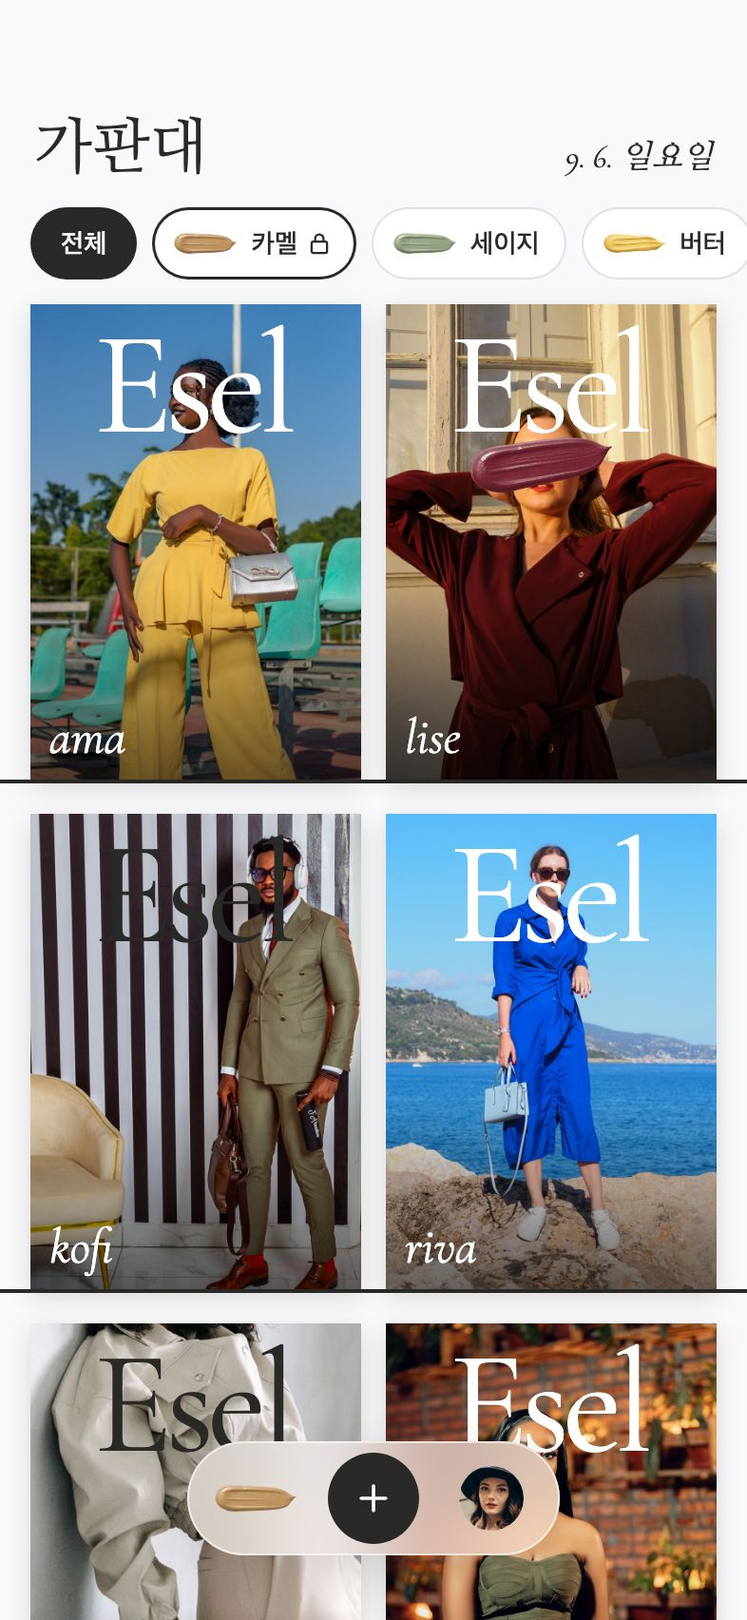
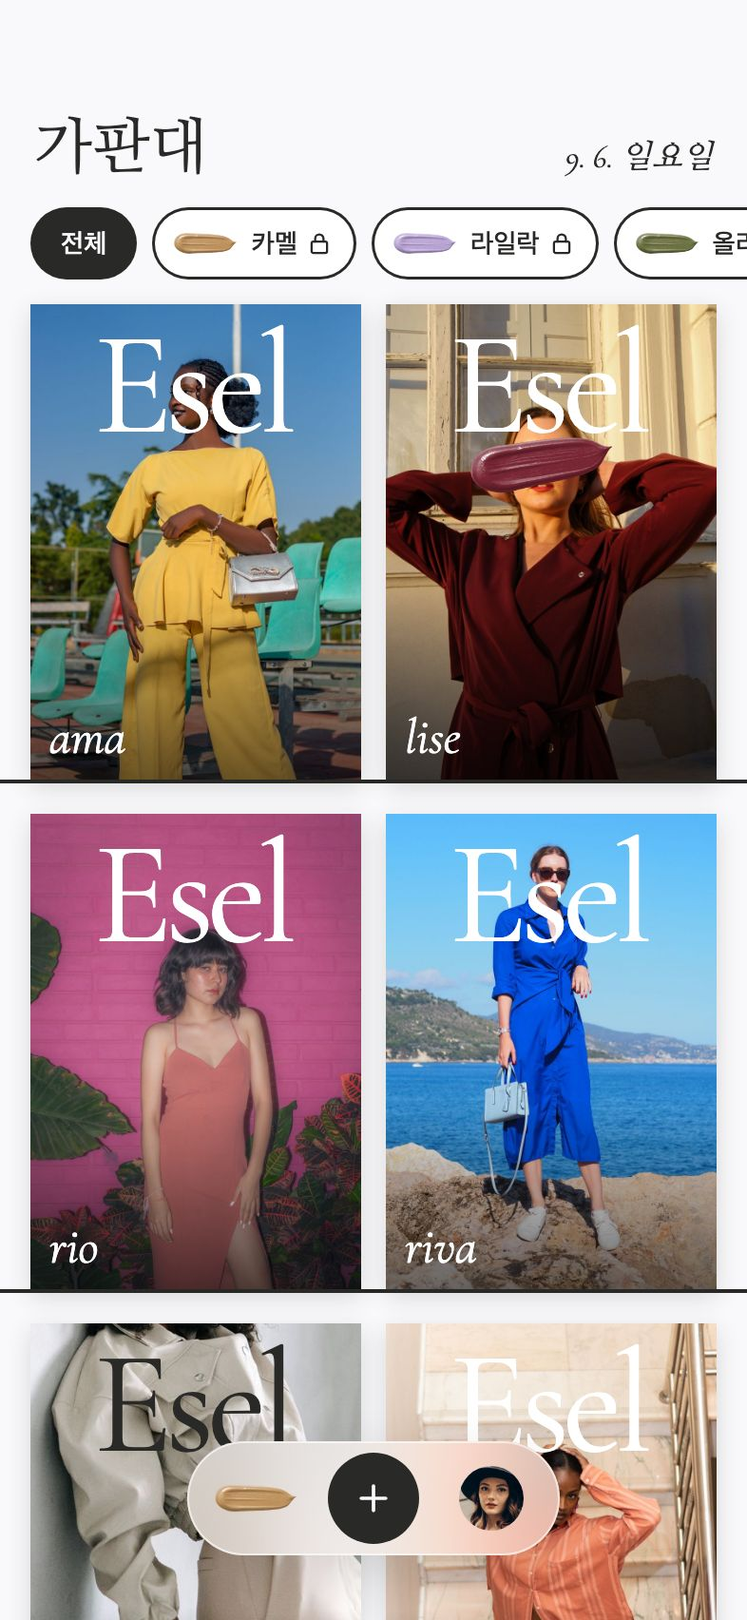
feat: 앱 목업과 디자인 가판대에 후보 3색 자물쇠 반영
목업과 캔버스 생성기의 가판대 칩에서 오늘 후보 3색(카멜·라일락·올리브)
모두에 자물쇠를 달고, 각 칩이 그 색의 미리보기 방(C8)을 연다. 발행 전
가판대 전체 선반에서 후보 색 표지를 빼고, 올리브 표지 자리는 후보가
아닌 색의 표지로 바꿨다. 디자인·목업 캡처와 디자인 문서도 갱신한다.

Changed region(s): [[0.0305, 0.4977, 0.4885, 0.8087], [0.4885, 0.8087, 0.9771, 1.0], [0.4885, 0.1244, 1.0, 0.1866]]

diff --git a/.codex/temp/prototype/20261003-cover-sns/generator/project/CoverStand.dc.html b/.codex/temp/prototype/20261003-cover-sns/generator/project/CoverStand.dc.html
@@ -33,14 +33,14 @@ button:active,a:active{transform:scale(0.97)}
 <div style="flex-shrink: 0; display: flex; gap: 8px; padding: 4px 16px 10px; overflow: hidden">
 <button type="button" aria-pressed="true" style="height: 44px; flex-shrink: 0; display: flex; align-items: center"><span style="height: 38px; padding: 0 16px; border-radius: 19px; display: flex; align-items: center; gap: 4px; font-size: 14px; font-weight: 500; white-space: nowrap; background: #292A27; color: #F9F9FB"><span>전체</span></span></button>
 <a href="CoverStandLocked.dc.html" aria-label="카멜 · 오늘 발행 전이라 세 장만 먼저 보여요" style="height: 44px; flex-shrink: 0; display: flex; align-items: center"><span style="height: 38px; padding: 0 12px 0 8px; border-radius: 19px; display: flex; align-items: center; gap: 4px; font-size: 14px; font-weight: 500; white-space: nowrap; background: #FFFFFF; box-shadow: inset 0 0 0 1.5px #292A27"><img src="/_blob/b6075b3235f77454183c94c49f6da37a" alt="" style="width: 40px; height: 20px; flex-shrink: 0; object-fit: contain"><span>카멜</span><svg width="15" height="15" viewBox="0 0 24 24" fill="none" stroke="currentColor" stroke-width="1.8" stroke-linecap="round" stroke-linejoin="round" aria-hidden="true"><rect x="5.5" y="10.5" width="13" height="9.5" rx="1.5"></rect><path d="M8.5 10.5V8a3.5 3.5 0 0 1 7 0v2.5"></path></svg></span></a>
+<a href="CoverStandLocked.dc.html" aria-label="라일락 · 오늘 발행 전이라 세 장만 먼저 보여요" style="height: 44px; flex-shrink: 0; display: flex; align-items: center"><span style="height: 38px; padding: 0 12px 0 8px; border-radius: 19px; display: flex; align-items: center; gap: 4px; font-size: 14px; font-weight: 500; white-space: nowrap; background: #FFFFFF; box-shadow: inset 0 0 0 1.5px #292A27"><img src="/_blob/d032f1756dd4b6c552a391d30c48d7d6" alt="" style="width: 40px; height: 20px; flex-shrink: 0; object-fit: contain"><span>라일락</span><svg width="15" height="15" viewBox="0 0 24 24" fill="none" stroke="currentColor" stroke-width="1.8" stroke-linecap="round" stroke-linejoin="round" aria-hidden="true"><rect x="5.5" y="10.5" width="13" height="9.5" rx="1.5"></rect><path d="M8.5 10.5V8a3.5 3.5 0 0 1 7 0v2.5"></path></svg></span></a>
+<a href="CoverStandLocked.dc.html" aria-label="올리브 · 오늘 발행 전이라 세 장만 먼저 보여요" style="height: 44px; flex-shrink: 0; display: flex; align-items: center"><span style="height: 38px; padding: 0 12px 0 8px; border-radius: 19px; display: flex; align-items: center; gap: 4px; font-size: 14px; font-weight: 500; white-space: nowrap; background: #FFFFFF; box-shadow: inset 0 0 0 1.5px #292A27"><img src="/_blob/8cb906caa448cfa1a9e4217aa611ab08" alt="" style="width: 40px; height: 20px; flex-shrink: 0; object-fit: contain"><span>올리브</span><svg width="15" height="15" viewBox="0 0 24 24" fill="none" stroke="currentColor" stroke-width="1.8" stroke-linecap="round" stroke-linejoin="round" aria-hidden="true"><rect x="5.5" y="10.5" width="13" height="9.5" rx="1.5"></rect><path d="M8.5 10.5V8a3.5 3.5 0 0 1 7 0v2.5"></path></svg></span></a>
 <button type="button" aria-pressed="false" style="height: 44px; flex-shrink: 0; display: flex; align-items: center"><span style="height: 38px; padding: 0 14px 0 8px; border-radius: 19px; display: flex; align-items: center; gap: 4px; font-size: 14px; font-weight: 500; white-space: nowrap; background: #FFFFFF; box-shadow: inset 0 0 0 1px #E0E1DC"><img src="/_blob/01c7aef9caeab80dd2ca2949e8ba18c0" alt="" style="width: 40px; height: 20px; flex-shrink: 0; object-fit: contain"><span>세이지</span></span></button>
 <button type="button" aria-pressed="false" style="height: 44px; flex-shrink: 0; display: flex; align-items: center"><span style="height: 38px; padding: 0 14px 0 8px; border-radius: 19px; display: flex; align-items: center; gap: 4px; font-size: 14px; font-weight: 500; white-space: nowrap; background: #FFFFFF; box-shadow: inset 0 0 0 1px #E0E1DC"><img src="/_blob/76c81659c2b051a973c2071f8c1dd366" alt="" style="width: 40px; height: 20px; flex-shrink: 0; object-fit: contain"><span>버터</span></span></button>
 <button type="button" aria-pressed="false" style="height: 44px; flex-shrink: 0; display: flex; align-items: center"><span style="height: 38px; padding: 0 14px 0 8px; border-radius: 19px; display: flex; align-items: center; gap: 4px; font-size: 14px; font-weight: 500; white-space: nowrap; background: #FFFFFF; box-shadow: inset 0 0 0 1px #E0E1DC"><img src="/_blob/2741e570bc827c25a1b735a55cfb4f8e" alt="" style="width: 40px; height: 20px; flex-shrink: 0; object-fit: contain"><span>파우더 블루</span></span></button>
 <button type="button" aria-pressed="false" style="height: 44px; flex-shrink: 0; display: flex; align-items: center"><span style="height: 38px; padding: 0 14px 0 8px; border-radius: 19px; display: flex; align-items: center; gap: 4px; font-size: 14px; font-weight: 500; white-space: nowrap; background: #FFFFFF; box-shadow: inset 0 0 0 1px #E0E1DC"><img src="/_blob/45fd789cdc8232887f512c159b3ba1e3" alt="" style="width: 40px; height: 20px; flex-shrink: 0; object-fit: contain"><span>코랄</span></span></button>
-<button type="button" aria-pressed="false" style="height: 44px; flex-shrink: 0; display: flex; align-items: center"><span style="height: 38px; padding: 0 14px 0 8px; border-radius: 19px; display: flex; align-items: center; gap: 4px; font-size: 14px; font-weight: 500; white-space: nowrap; background: #FFFFFF; box-shadow: inset 0 0 0 1px #E0E1DC"><img src="/_blob/d032f1756dd4b6c552a391d30c48d7d6" alt="" style="width: 40px; height: 20px; flex-shrink: 0; object-fit: contain"><span>라일락</span></span></button>
 <button type="button" aria-pressed="false" style="height: 44px; flex-shrink: 0; display: flex; align-items: center"><span style="height: 38px; padding: 0 14px 0 8px; border-radius: 19px; display: flex; align-items: center; gap: 4px; font-size: 14px; font-weight: 500; white-space: nowrap; background: #FFFFFF; box-shadow: inset 0 0 0 1px #E0E1DC"><img src="/_blob/dc9bda2f1944a8796d1a3d118d7d5935" alt="" style="width: 40px; height: 20px; flex-shrink: 0; object-fit: contain"><span>테라코타</span></span></button>
 <button type="button" aria-pressed="false" style="height: 44px; flex-shrink: 0; display: flex; align-items: center"><span style="height: 38px; padding: 0 14px 0 8px; border-radius: 19px; display: flex; align-items: center; gap: 4px; font-size: 14px; font-weight: 500; white-space: nowrap; background: #FFFFFF; box-shadow: inset 0 0 0 1px #E0E1DC"><img src="/_blob/8c34cccf0aa6b2cd1c68178dbff4a444" alt="" style="width: 40px; height: 20px; flex-shrink: 0; object-fit: contain"><span>버건디</span></span></button>
-<button type="button" aria-pressed="false" style="height: 44px; flex-shrink: 0; display: flex; align-items: center"><span style="height: 38px; padding: 0 14px 0 8px; border-radius: 19px; display: flex; align-items: center; gap: 4px; font-size: 14px; font-weight: 500; white-space: nowrap; background: #FFFFFF; box-shadow: inset 0 0 0 1px #E0E1DC"><img src="/_blob/8cb906caa448cfa1a9e4217aa611ab08" alt="" style="width: 40px; height: 20px; flex-shrink: 0; object-fit: contain"><span>올리브</span></span></button>
 <button type="button" aria-pressed="false" style="height: 44px; flex-shrink: 0; display: flex; align-items: center"><span style="height: 38px; padding: 0 14px 0 8px; border-radius: 19px; display: flex; align-items: center; gap: 4px; font-size: 14px; font-weight: 500; white-space: nowrap; background: #FFFFFF; box-shadow: inset 0 0 0 1px #E0E1DC"><img src="/_blob/3530d97ccf523268678b64e43a7a9448" alt="" style="width: 40px; height: 20px; flex-shrink: 0; object-fit: contain"><span>크림</span></span></button>
 <button type="button" aria-pressed="false" style="height: 44px; flex-shrink: 0; display: flex; align-items: center"><span style="height: 38px; padding: 0 14px 0 8px; border-radius: 19px; display: flex; align-items: center; gap: 4px; font-size: 14px; font-weight: 500; white-space: nowrap; background: #FFFFFF; box-shadow: inset 0 0 0 1px #E0E1DC"><img src="/_blob/f0a5d7b805f4ea330ca85e418c63f59e" alt="" style="width: 40px; height: 20px; flex-shrink: 0; object-fit: contain"><span>차콜</span></span></button>
 <button type="button" aria-pressed="false" style="height: 44px; flex-shrink: 0; display: flex; align-items: center"><span style="height: 38px; padding: 0 14px 0 8px; border-radius: 19px; display: flex; align-items: center; gap: 4px; font-size: 14px; font-weight: 500; white-space: nowrap; background: #FFFFFF; box-shadow: inset 0 0 0 1px #E0E1DC"><img src="/_blob/df0bc44e7f972fd97b0d90234a638a31" alt="" style="width: 40px; height: 20px; flex-shrink: 0; object-fit: contain"><span>코발트</span></span></button>
@@ -57,11 +57,11 @@ button:active,a:active{transform:scale(0.97)}
 <span style="position: absolute; left: 10px; bottom: 9px; color: #FFFFFF; font-family: 'Esel Dot', 'Cormorant Garamond', 'Nanum Myeongjo', AppleMyungjo, Georgia, serif; font-style: italic; font-size: 26px; line-height: 1">lise</span>
 </a></div>
 <span aria-hidden="true" style="flex-shrink: 0; height: 2px; margin-bottom: 16px; background: #292A27"></span>
-<div style="flex-shrink: 0; display: flex; justify-content: space-between; padding: 0 16px"><a href="CoverFeed.dc.html" aria-label="kofi의 표지 보기" style="position: relative; display: block; width: 174px; height: 250px; flex-shrink: 0; overflow: hidden; background: #EDEEEA; color: #292A27; box-shadow: 0 4px 12px rgba(41, 42, 39, 0.16)">
-<span style="position: relative; display: block; width: 174px; height: 250px; overflow: hidden"><img src="/_blob/c2d2447b3fb019a0647547b338dc9615" alt="올리브 더블 수트와 빨간 타이 착장" style="display: block; width: 174px; height: 250px; object-fit: cover; object-position: 70% 20%"></span>
+<div style="flex-shrink: 0; display: flex; justify-content: space-between; padding: 0 16px"><a href="CoverFeed.dc.html" aria-label="rio의 표지 보기" style="position: relative; display: block; width: 174px; height: 250px; flex-shrink: 0; overflow: hidden; background: #EDEEEA; color: #FFFFFF; box-shadow: 0 4px 12px rgba(41, 42, 39, 0.16)">
+<span style="position: relative; display: block; width: 174px; height: 250px; overflow: hidden"><img src="/_blob/b5ff21cbb74e080d3cd23771fe4a7d6a" alt="분홍 벽 앞 코랄 슬립 원피스 착장" style="display: block; width: 174px; height: 250px; object-fit: cover; object-position: 50% 30%"></span>
 <span aria-hidden="true" style="position: absolute; left: 0; right: 0; top: 8px; text-align: center; font-family: 'Esel Dot', 'Cormorant Garamond', 'Nanum Myeongjo', AppleMyungjo, Georgia, serif; font-size: 77px; line-height: 0.9; letter-spacing: -0.05em; padding-right: 4px">Esel</span>
 <span aria-hidden="true" style="position: absolute; left: 0; right: 0; bottom: 0; height: 40%; background: linear-gradient(rgba(0, 0, 0, 0), rgba(0, 0, 0, 0.55))"></span>
-<span style="position: absolute; left: 10px; bottom: 9px; color: #FFFFFF; font-family: 'Esel Dot', 'Cormorant Garamond', 'Nanum Myeongjo', AppleMyungjo, Georgia, serif; font-style: italic; font-size: 26px; line-height: 1">kofi</span>
+<span style="position: absolute; left: 10px; bottom: 9px; color: #FFFFFF; font-family: 'Esel Dot', 'Cormorant Garamond', 'Nanum Myeongjo', AppleMyungjo, Georgia, serif; font-style: italic; font-size: 26px; line-height: 1">rio</span>
 </a><a href="CoverFeed.dc.html" aria-label="riva의 표지 보기" style="position: relative; display: block; width: 174px; height: 250px; flex-shrink: 0; overflow: hidden; background: #EDEEEA; color: #FFFFFF; box-shadow: 0 4px 12px rgba(41, 42, 39, 0.16)">
 <span style="position: relative; display: block; width: 174px; height: 250px; overflow: hidden"><img src="/_blob/7bee9f1a7214e73bb5aa29dfce802597" alt="바닷가 바위 위 코발트 셔츠 원피스 착장" style="display: block; width: 174px; height: 250px; object-fit: cover; object-position: 50% 30%"></span>
 <span aria-hidden="true" style="position: absolute; left: 0; right: 0; top: 8px; text-align: center; font-family: 'Esel Dot', 'Cormorant Garamond', 'Nanum Myeongjo', AppleMyungjo, Georgia, serif; font-size: 77px; line-height: 0.9; letter-spacing: -0.05em; padding-right: 4px">Esel</span>
@@ -74,11 +74,11 @@ button:active,a:active{transform:scale(0.97)}
 <span aria-hidden="true" style="position: absolute; left: 0; right: 0; top: 8px; text-align: center; font-family: 'Esel Dot', 'Cormorant Garamond', 'Nanum Myeongjo', AppleMyungjo, Georgia, serif; font-size: 77px; line-height: 0.9; letter-spacing: -0.05em; padding-right: 4px">Esel</span>
 <span aria-hidden="true" style="position: absolute; left: 0; right: 0; bottom: 0; height: 40%; background: linear-gradient(rgba(0, 0, 0, 0), rgba(0, 0, 0, 0.55))"></span>
 <span style="position: absolute; left: 10px; bottom: 9px; color: #FFFFFF; font-family: 'Esel Dot', 'Cormorant Garamond', 'Nanum Myeongjo', AppleMyungjo, Georgia, serif; font-style: italic; font-size: 26px; line-height: 1">maya</span>
-</a><a href="CoverFeed.dc.html" aria-label="imani의 표지 보기" style="position: relative; display: block; width: 174px; height: 250px; flex-shrink: 0; overflow: hidden; background: #EDEEEA; color: #FFFFFF; box-shadow: 0 4px 12px rgba(41, 42, 39, 0.16)">
-<span style="position: relative; display: block; width: 174px; height: 250px; overflow: hidden"><img src="/_blob/72d732d3de8d11ba280ed3e810a621a5" alt="벽돌 벽 앞 올리브 튜브 드레스 착장" style="display: block; width: 174px; height: 250px; object-fit: cover; object-position: 50% 30%"></span>
+</a><a href="CoverFeed.dc.html" aria-label="nia의 표지 보기" style="position: relative; display: block; width: 174px; height: 250px; flex-shrink: 0; overflow: hidden; background: #EDEEEA; color: #FFFFFF; box-shadow: 0 4px 12px rgba(41, 42, 39, 0.16)">
+<span style="position: relative; display: block; width: 174px; height: 250px; overflow: hidden"><img src="/_blob/be2062f0f8bb9e61196b7a918177e0f2" alt="테라코타 줄무늬 셔츠와 반바지 착장" style="display: block; width: 174px; height: 250px; object-fit: cover; object-position: 50% 30%"></span>
 <span aria-hidden="true" style="position: absolute; left: 0; right: 0; top: 8px; text-align: center; font-family: 'Esel Dot', 'Cormorant Garamond', 'Nanum Myeongjo', AppleMyungjo, Georgia, serif; font-size: 77px; line-height: 0.9; letter-spacing: -0.05em; padding-right: 4px">Esel</span>
 <span aria-hidden="true" style="position: absolute; left: 0; right: 0; bottom: 0; height: 40%; background: linear-gradient(rgba(0, 0, 0, 0), rgba(0, 0, 0, 0.55))"></span>
-<span style="position: absolute; left: 10px; bottom: 9px; color: #FFFFFF; font-family: 'Esel Dot', 'Cormorant Garamond', 'Nanum Myeongjo', AppleMyungjo, Georgia, serif; font-style: italic; font-size: 26px; line-height: 1">imani</span>
+<span style="position: absolute; left: 10px; bottom: 9px; color: #FFFFFF; font-family: 'Esel Dot', 'Cormorant Garamond', 'Nanum Myeongjo', AppleMyungjo, Georgia, serif; font-style: italic; font-size: 26px; line-height: 1">nia</span>
 </a></div>
 <span aria-hidden="true" style="flex-shrink: 0; height: 2px; margin-bottom: 16px; background: #292A27"></span>
 <nav aria-label="주요 화면" class="esel-glass" style="position: absolute; left: 50%; bottom: 34px; width: 196px; height: 60px; margin-left: -98px; box-sizing: border-box; padding: 0 6px; border-radius: 30px; display: flex; align-items: center; justify-content: space-between; color: #292A27">

diff --git a/.codex/temp/prototype/20261003-cover-sns/generator/project/CoverStandLocked.dc.html b/.codex/temp/prototype/20261003-cover-sns/generator/project/CoverStandLocked.dc.html
@@ -33,14 +33,14 @@ button:active,a:active{transform:scale(0.97)}
 <div style="flex-shrink: 0; display: flex; gap: 8px; padding: 4px 16px 6px; overflow: hidden">
 <a href="CoverStand.dc.html" style="height: 44px; flex-shrink: 0; display: flex; align-items: center"><span style="height: 38px; padding: 0 16px; border-radius: 19px; display: flex; align-items: center; font-size: 14px; font-weight: 500; background: #FFFFFF; box-shadow: inset 0 0 0 1px #E0E1DC">전체</span></a>
 <a href="CoverStandLocked.dc.html" aria-label="카멜 · 오늘 발행 전이라 세 장만 먼저 보여요" aria-current="true" style="height: 44px; flex-shrink: 0; display: flex; align-items: center"><span style="height: 38px; padding: 0 12px 0 8px; border-radius: 19px; display: flex; align-items: center; gap: 4px; font-size: 14px; font-weight: 500; white-space: nowrap; background: #292A27; color: #F9F9FB"><img src="/_blob/b6075b3235f77454183c94c49f6da37a" alt="" style="width: 40px; height: 20px; flex-shrink: 0; object-fit: contain"><span>카멜</span><svg width="15" height="15" viewBox="0 0 24 24" fill="none" stroke="currentColor" stroke-width="1.8" stroke-linecap="round" stroke-linejoin="round" aria-hidden="true"><rect x="5.5" y="10.5" width="13" height="9.5" rx="1.5"></rect><path d="M8.5 10.5V8a3.5 3.5 0 0 1 7 0v2.5"></path></svg></span></a>
+<a href="CoverStandLocked.dc.html" aria-label="라일락 · 오늘 발행 전이라 세 장만 먼저 보여요" style="height: 44px; flex-shrink: 0; display: flex; align-items: center"><span style="height: 38px; padding: 0 12px 0 8px; border-radius: 19px; display: flex; align-items: center; gap: 4px; font-size: 14px; font-weight: 500; white-space: nowrap; background: #FFFFFF; box-shadow: inset 0 0 0 1.5px #292A27"><img src="/_blob/d032f1756dd4b6c552a391d30c48d7d6" alt="" style="width: 40px; height: 20px; flex-shrink: 0; object-fit: contain"><span>라일락</span><svg width="15" height="15" viewBox="0 0 24 24" fill="none" stroke="currentColor" stroke-width="1.8" stroke-linecap="round" stroke-linejoin="round" aria-hidden="true"><rect x="5.5" y="10.5" width="13" height="9.5" rx="1.5"></rect><path d="M8.5 10.5V8a3.5 3.5 0 0 1 7 0v2.5"></path></svg></span></a>
+<a href="CoverStandLocked.dc.html" aria-label="올리브 · 오늘 발행 전이라 세 장만 먼저 보여요" style="height: 44px; flex-shrink: 0; display: flex; align-items: center"><span style="height: 38px; padding: 0 12px 0 8px; border-radius: 19px; display: flex; align-items: center; gap: 4px; font-size: 14px; font-weight: 500; white-space: nowrap; background: #FFFFFF; box-shadow: inset 0 0 0 1.5px #292A27"><img src="/_blob/8cb906caa448cfa1a9e4217aa611ab08" alt="" style="width: 40px; height: 20px; flex-shrink: 0; object-fit: contain"><span>올리브</span><svg width="15" height="15" viewBox="0 0 24 24" fill="none" stroke="currentColor" stroke-width="1.8" stroke-linecap="round" stroke-linejoin="round" aria-hidden="true"><rect x="5.5" y="10.5" width="13" height="9.5" rx="1.5"></rect><path d="M8.5 10.5V8a3.5 3.5 0 0 1 7 0v2.5"></path></svg></span></a>
 <button type="button" aria-pressed="false" style="height: 44px; flex-shrink: 0; display: flex; align-items: center"><span style="height: 38px; padding: 0 14px 0 8px; border-radius: 19px; display: flex; align-items: center; gap: 4px; font-size: 14px; font-weight: 500; white-space: nowrap; background: #FFFFFF; box-shadow: inset 0 0 0 1px #E0E1DC"><img src="/_blob/01c7aef9caeab80dd2ca2949e8ba18c0" alt="" style="width: 40px; height: 20px; flex-shrink: 0; object-fit: contain"><span>세이지</span></span></button>
 <button type="button" aria-pressed="false" style="height: 44px; flex-shrink: 0; display: flex; align-items: center"><span style="height: 38px; padding: 0 14px 0 8px; border-radius: 19px; display: flex; align-items: center; gap: 4px; font-size: 14px; font-weight: 500; white-space: nowrap; background: #FFFFFF; box-shadow: inset 0 0 0 1px #E0E1DC"><img src="/_blob/76c81659c2b051a973c2071f8c1dd366" alt="" style="width: 40px; height: 20px; flex-shrink: 0; object-fit: contain"><span>버터</span></span></button>
 <button type="button" aria-pressed="false" style="height: 44px; flex-shrink: 0; display: flex; align-items: center"><span style="height: 38px; padding: 0 14px 0 8px; border-radius: 19px; display: flex; align-items: center; gap: 4px; font-size: 14px; font-weight: 500; white-space: nowrap; background: #FFFFFF; box-shadow: inset 0 0 0 1px #E0E1DC"><img src="/_blob/2741e570bc827c25a1b735a55cfb4f8e" alt="" style="width: 40px; height: 20px; flex-shrink: 0; object-fit: contain"><span>파우더 블루</span></span></button>
 <button type="button" aria-pressed="false" style="height: 44px; flex-shrink: 0; display: flex; align-items: center"><span style="height: 38px; padding: 0 14px 0 8px; border-radius: 19px; display: flex; align-items: center; gap: 4px; font-size: 14px; font-weight: 500; white-space: nowrap; background: #FFFFFF; box-shadow: inset 0 0 0 1px #E0E1DC"><img src="/_blob/45fd789cdc8232887f512c159b3ba1e3" alt="" style="width: 40px; height: 20px; flex-shrink: 0; object-fit: contain"><span>코랄</span></span></button>
-<button type="button" aria-pressed="false" style="height: 44px; flex-shrink: 0; display: flex; align-items: center"><span style="height: 38px; padding: 0 14px 0 8px; border-radius: 19px; display: flex; align-items: center; gap: 4px; font-size: 14px; font-weight: 500; white-space: nowrap; background: #FFFFFF; box-shadow: inset 0 0 0 1px #E0E1DC"><img src="/_blob/d032f1756dd4b6c552a391d30c48d7d6" alt="" style="width: 40px; height: 20px; flex-shrink: 0; object-fit: contain"><span>라일락</span></span></button>
 <button type="button" aria-pressed="false" style="height: 44px; flex-shrink: 0; display: flex; align-items: center"><span style="height: 38px; padding: 0 14px 0 8px; border-radius: 19px; display: flex; align-items: center; gap: 4px; font-size: 14px; font-weight: 500; white-space: nowrap; background: #FFFFFF; box-shadow: inset 0 0 0 1px #E0E1DC"><img src="/_blob/dc9bda2f1944a8796d1a3d118d7d5935" alt="" style="width: 40px; height: 20px; flex-shrink: 0; object-fit: contain"><span>테라코타</span></span></button>
 <button type="button" aria-pressed="false" style="height: 44px; flex-shrink: 0; display: flex; align-items: center"><span style="height: 38px; padding: 0 14px 0 8px; border-radius: 19px; display: flex; align-items: center; gap: 4px; font-size: 14px; font-weight: 500; white-space: nowrap; background: #FFFFFF; box-shadow: inset 0 0 0 1px #E0E1DC"><img src="/_blob/8c34cccf0aa6b2cd1c68178dbff4a444" alt="" style="width: 40px; height: 20px; flex-shrink: 0; object-fit: contain"><span>버건디</span></span></button>
-<button type="button" aria-pressed="false" style="height: 44px; flex-shrink: 0; display: flex; align-items: center"><span style="height: 38px; padding: 0 14px 0 8px; border-radius: 19px; display: flex; align-items: center; gap: 4px; font-size: 14px; font-weight: 500; white-space: nowrap; background: #FFFFFF; box-shadow: inset 0 0 0 1px #E0E1DC"><img src="/_blob/8cb906caa448cfa1a9e4217aa611ab08" alt="" style="width: 40px; height: 20px; flex-shrink: 0; object-fit: contain"><span>올리브</span></span></button>
 <button type="button" aria-pressed="false" style="height: 44px; flex-shrink: 0; display: flex; align-items: center"><span style="height: 38px; padding: 0 14px 0 8px; border-radius: 19px; display: flex; align-items: center; gap: 4px; font-size: 14px; font-weight: 500; white-space: nowrap; background: #FFFFFF; box-shadow: inset 0 0 0 1px #E0E1DC"><img src="/_blob/3530d97ccf523268678b64e43a7a9448" alt="" style="width: 40px; height: 20px; flex-shrink: 0; object-fit: contain"><span>크림</span></span></button>
 <button type="button" aria-pressed="false" style="height: 44px; flex-shrink: 0; display: flex; align-items: center"><span style="height: 38px; padding: 0 14px 0 8px; border-radius: 19px; display: flex; align-items: center; gap: 4px; font-size: 14px; font-weight: 500; white-space: nowrap; background: #FFFFFF; box-shadow: inset 0 0 0 1px #E0E1DC"><img src="/_blob/f0a5d7b805f4ea330ca85e418c63f59e" alt="" style="width: 40px; height: 20px; flex-shrink: 0; object-fit: contain"><span>차콜</span></span></button>
 <button type="button" aria-pressed="false" style="height: 44px; flex-shrink: 0; display: flex; align-items: center"><span style="height: 38px; padding: 0 14px 0 8px; border-radius: 19px; display: flex; align-items: center; gap: 4px; font-size: 14px; font-weight: 500; white-space: nowrap; background: #FFFFFF; box-shadow: inset 0 0 0 1px #E0E1DC"><img src="/_blob/df0bc44e7f972fd97b0d90234a638a31" alt="" style="width: 40px; height: 20px; flex-shrink: 0; object-fit: contain"><span>코발트</span></span></button>

diff --git a/.codex/temp/prototype/20261003-cover-sns/generator/project/BoardComponents.dc.html b/.codex/temp/prototype/20261003-cover-sns/generator/project/BoardComponents.dc.html
@@ -56,7 +56,7 @@ button:active,a:active{transform:scale(0.97)}
 <section style="display: flex; flex-direction: column; gap: 18px">
 <h2 style="margin: 0; font-family: 'Esel Dot', 'Cormorant Garamond', 'Nanum Myeongjo', AppleMyungjo, Georgia, serif; font-size: 30px; font-weight: 400; line-height: 1.2">선택</h2>
 <div style="display: flex; gap: 32px; flex-wrap: wrap; align-items: flex-start">
-<div style="display: flex; flex-direction: column; gap: 10px; width: auto"><div style="min-height: 64px; display: flex; align-items: center"><span style="display: flex; gap: 8px"><span style="height: 38px; padding: 0 16px; border-radius: 19px; display: inline-flex; align-items: center; gap: 4px; font-size: 14px; font-weight: 500; background: #292A27; color: #F9F9FB">전체</span><span style="height: 38px; padding: 0 12px 0 8px; border-radius: 19px; display: inline-flex; align-items: center; gap: 4px; font-size: 14px; font-weight: 500; background: #FFFFFF; box-shadow: inset 0 0 0 1.5px #292A27"><img src="/_blob/b6075b3235f77454183c94c49f6da37a" alt="" style="width: 40px; height: 20px; flex-shrink: 0; object-fit: contain">카멜<svg width="15" height="15" viewBox="0 0 24 24" fill="none" stroke="currentColor" stroke-width="1.8" stroke-linecap="round" stroke-linejoin="round" aria-hidden="true"><rect x="5.5" y="10.5" width="13" height="9.5" rx="1.5"></rect><path d="M8.5 10.5V8a3.5 3.5 0 0 1 7 0v2.5"></path></svg></span><span style="height: 38px; padding: 0 14px 0 8px; border-radius: 19px; display: inline-flex; align-items: center; gap: 4px; font-size: 14px; font-weight: 500; background: #FFFFFF; box-shadow: inset 0 0 0 1px #E0E1DC"><img src="/_blob/df0bc44e7f972fd97b0d90234a638a31" alt="" style="width: 40px; height: 20px; flex-shrink: 0; object-fit: contain">코발트</span></span></div><span style="font-family: 'DM Mono', ui-monospace, Menlo, monospace; font-size: 11px; color: #71736C">같은 색 칩 · 선택 / 내 색 발행 전 / 기본</span></div>
+<div style="display: flex; flex-direction: column; gap: 10px; width: auto"><div style="min-height: 64px; display: flex; align-items: center"><span style="display: flex; gap: 8px"><span style="height: 38px; padding: 0 16px; border-radius: 19px; display: inline-flex; align-items: center; gap: 4px; font-size: 14px; font-weight: 500; background: #292A27; color: #F9F9FB">전체</span><span style="height: 38px; padding: 0 12px 0 8px; border-radius: 19px; display: inline-flex; align-items: center; gap: 4px; font-size: 14px; font-weight: 500; background: #FFFFFF; box-shadow: inset 0 0 0 1.5px #292A27"><img src="/_blob/b6075b3235f77454183c94c49f6da37a" alt="" style="width: 40px; height: 20px; flex-shrink: 0; object-fit: contain">카멜<svg width="15" height="15" viewBox="0 0 24 24" fill="none" stroke="currentColor" stroke-width="1.8" stroke-linecap="round" stroke-linejoin="round" aria-hidden="true"><rect x="5.5" y="10.5" width="13" height="9.5" rx="1.5"></rect><path d="M8.5 10.5V8a3.5 3.5 0 0 1 7 0v2.5"></path></svg></span><span style="height: 38px; padding: 0 14px 0 8px; border-radius: 19px; display: inline-flex; align-items: center; gap: 4px; font-size: 14px; font-weight: 500; background: #FFFFFF; box-shadow: inset 0 0 0 1px #E0E1DC"><img src="/_blob/df0bc44e7f972fd97b0d90234a638a31" alt="" style="width: 40px; height: 20px; flex-shrink: 0; object-fit: contain">코발트</span></span></div><span style="font-family: 'DM Mono', ui-monospace, Menlo, monospace; font-size: 11px; color: #71736C">같은 색 칩 · 선택 / 오늘 후보 색 발행 전 / 기본</span></div>
 <div style="display: flex; flex-direction: column; gap: 10px; width: auto"><div style="min-height: 64px; display: flex; align-items: center"><div style="display: flex; gap: 6px; width: 340px"><span style="flex: 1 1 0; height: 36px; border-radius: 18px; display: flex; align-items: center; justify-content: center; font-size: 14px; font-weight: 600; box-shadow: inset 0 0 0 1.5px #292A27; ">그대로</span><span style="flex: 1 1 0; height: 36px; border-radius: 18px; display: flex; align-items: center; justify-content: center; font-size: 14px; font-weight: 600; box-shadow: inset 0 0 0 1.5px #292A27; background: #292A27; color: #F9F9FB">물감</span><span style="flex: 1 1 0; height: 36px; border-radius: 18px; display: flex; align-items: center; justify-content: center; font-size: 14px; font-weight: 600; box-shadow: inset 0 0 0 1.5px #292A27; ">제호 뒤</span><span style="flex: 1 1 0; height: 36px; border-radius: 18px; display: flex; align-items: center; justify-content: center; font-size: 14px; font-weight: 600; box-shadow: inset 0 0 0 1.5px #292A27; ">목 아래</span></div></div><span style="font-family: 'DM Mono', ui-monospace, Menlo, monospace; font-size: 11px; color: #71736C">세그먼트 · 얼굴</span></div>
 <div style="display: flex; flex-direction: column; gap: 10px; width: auto"><div style="min-height: 64px; display: flex; align-items: center"><span style="width: 340px; height: 92px; display: flex; align-items: center; gap: 16px; padding: 0 18px; box-sizing: border-box; border-radius: 22px; background: #FFFFFF; box-shadow: inset 0 0 0 1.5px #292A27, 0 6px 18px rgba(41, 42, 39, 0.08)"><img src="/_blob/b6075b3235f77454183c94c49f6da37a" alt="" style="width: 110px; height: 55px; flex-shrink: 0; object-fit: contain"><span style="display: flex; flex-direction: column"><span style="font-size: 18px; font-weight: 600">카멜</span><span style="font-family: 'Esel Dot', 'Cormorant Garamond', 'Nanum Myeongjo', AppleMyungjo, Georgia, serif; font-style: italic; font-size: 16px; color: #71736C">Camel</span></span><span style="margin-left: auto; width: 26px; height: 26px; border-radius: 50%; display: flex; align-items: center; justify-content: center; background: #292A27; color: #F9F9FB"><svg width="16" height="16" viewBox="0 0 24 24" fill="none" stroke="currentColor" stroke-width="2.2" stroke-linecap="round" stroke-linejoin="round" aria-hidden="true"><path d="M5 12.5l4.5 4.5L19 7.5"></path></svg></span></span></div><span style="font-family: 'DM Mono', ui-monospace, Menlo, monospace; font-size: 11px; color: #71736C">색 고르기 · 선택</span></div>
 <div style="display: flex; flex-direction: column; gap: 10px; width: auto"><div style="min-height: 64px; display: flex; align-items: center"><span style="display: flex; gap: 28px"><span style="display: flex; align-items: center; gap: 18px; color: #292A27; font-size: 13px; font-weight: 600"><span style="display: flex; align-items: center; gap: 6px"><svg width="23" height="23" viewBox="0 0 24 24" fill="none" stroke="currentColor" stroke-width="1.7" stroke-linejoin="round" aria-hidden="true"><path d="M12 20.3l-1.2-1.1C6.2 15 3.5 12.5 3.5 9.4 3.5 7 5.4 5 7.8 5c1.6 0 3.2.9 4.2 2.2C13 5.9 14.6 5 16.2 5c2.4 0 4.3 2 4.3 4.4 0 3.1-2.7 5.6-7.3 9.8L12 20.3z"></path></svg></span><span style="display: flex; align-items: center; gap: 6px"><svg width="23" height="23" viewBox="0 0 24 24" fill="none" stroke="currentColor" stroke-width="1.7" stroke-linecap="round" stroke-linejoin="round" aria-hidden="true"><path d="M20 12a8 8 0 0 1-11.8 7L4 20l1.1-4A8 8 0 1 1 20 12z"></path></svg></span><span style="display: flex; align-items: center; gap: 6px"><svg width="23" height="23" viewBox="0 0 24 24" fill="none" stroke="currentColor" stroke-width="1.7" stroke-linecap="round" stroke-linejoin="round" aria-hidden="true"><path d="M6.5 4h11v16l-5.5-4.2L6.5 20z"></path></svg></span></span><span style="display: flex; align-items: center; gap: 18px; color: #292A27; font-size: 13px; font-weight: 600"><span style="display: flex; align-items: center; gap: 6px"><svg width="23" height="23" viewBox="0 0 24 24" fill="currentColor" stroke="currentColor" stroke-width="1.7" stroke-linejoin="round" aria-hidden="true"><path d="M12 20.3l-1.2-1.1C6.2 15 3.5 12.5 3.5 9.4 3.5 7 5.4 5 7.8 5c1.6 0 3.2.9 4.2 2.2C13 5.9 14.6 5 16.2 5c2.4 0 4.3 2 4.3 4.4 0 3.1-2.7 5.6-7.3 9.8L12 20.3z"></path></svg></span><span style="display: flex; align-items: center; gap: 6px"><svg width="23" height="23" viewBox="0 0 24 24" fill="none" stroke="currentColor" stroke-width="1.7" stroke-linecap="round" stroke-linejoin="round" aria-hidden="true"><path d="M20 12a8 8 0 0 1-11.8 7L4 20l1.1-4A8 8 0 1 1 20 12z"></path></svg></span><span style="display: flex; align-items: center; gap: 6px"><svg width="23" height="23" viewBox="0 0 24 24" fill="none" stroke="currentColor" stroke-width="1.7" stroke-linecap="round" stroke-linejoin="round" aria-hidden="true"><path d="M6.5 4h11v16l-5.5-4.2L6.5 20z"></path></svg></span></span></span></div><span style="font-family: 'DM Mono', ui-monospace, Menlo, monospace; font-size: 11px; color: #71736C">반응 · 남의 표지 · 숫자 없음 / 좋아요</span></div>

diff --git a/.codex/temp/prototype/20261011-app-mockup/src/app.js b/.codex/temp/prototype/20261011-app-mockup/src/app.js
@@ -173,7 +173,8 @@ let S = fresh();
 let stack = [{ name: 'intro' }];
 
 const locked = () => S.auth === 'in' && !S.published && !S.me.minor;
-const visibleToday = (k) => !(locked() && PEOPLE[k].color === S.me.color);
+// P01 (10-15): before publishing, every one of today's candidate colors is at the preview, so switching color opens nothing.
+const visibleToday = (k) => !(locked() && TODAY_COLORS.includes(PEOPLE[k].color));
 const myIssue = () => S.me.issues + (S.published ? 0 : 1);
 const issueOf = (k) => (k === ME ? myIssue() : ISSUES[k] || 12);
 const meName = () => S.me.name;
@@ -446,14 +447,13 @@ function readerLine(r, t) {
 
 // C4 가판대
 function chips(active) {
-  const mine = S.me.color;
-  const lockChip = locked()
-    ? `<button type="button" class="chip locked${active === mine ? ' on' : ''}" data-go="same" aria-label="${cname(mine)} · 오늘 발행 전이라 세 장만 먼저 보여요"><span>${paintImg(mine, 40)}<span>${cname(mine)}</span>${icon('lock', 15, 1.8)}</span></button>`
-    : `<button type="button" class="chip${active === mine ? ' on' : ''}" data-go="stand:${mine}" aria-pressed="${active === mine}"><span id="mychip">${paintImg(mine, 40)}<span>${cname(mine)}</span></span></button>`;
+  const today = [S.me.color, ...TODAY_COLORS.filter((c) => c !== S.me.color)];
+  const lockChip = (c) => `<button type="button" class="chip locked${active === c ? ' on' : ''}" data-go="same:${c}" aria-label="${cname(c)} · 오늘 발행 전이라 세 장만 먼저 보여요"><span>${paintImg(c, 40)}<span>${cname(c)}</span>${icon('lock', 15, 1.8)}</span></button>`;
+  const openChip = (c) => `<button type="button" class="chip${active === c ? ' on' : ''}" data-go="stand:${c}" aria-pressed="${active === c}"><span${c === S.me.color ? ' id="mychip"' : ''}>${paintImg(c, 40)}<span>${cname(c)}</span></span></button>`;
   return `<div class="chips" role="group" aria-label="같은 색">
 <button type="button" class="chip plain${!active ? ' on' : ''}" data-go="stand" aria-pressed="${!active}"><span>전체</span></button>
-${lockChip}
-${ORDER.filter((c) => c !== mine).map((c) => `<button type="button" class="chip${active === c ? ' on' : ''}" data-go="stand:${c}" aria-pressed="${active === c}"><span>${paintImg(c, 40)}<span>${cname(c)}</span></span></button>`).join('')}
+${today.map((c) => (locked() ? lockChip(c) : openChip(c))).join('')}
+${ORDER.filter((c) => !today.includes(c)).map(openChip).join('')}
 </div>`;
 }
 function shelfGrid(keys, { rise = false } = {}) {
@@ -465,7 +465,7 @@ function shelfGrid(keys, { rise = false } = {}) {
   return rows.join('');
 }
 SCREENS.stand = (c) => {
-  if (c && c === S.me.color && locked()) return { redirect: { name: 'same' } };
+  if (c && TODAY_COLORS.includes(c) && locked()) return { redirect: { name: 'same', arg: c } };
   let keys = FEED.filter(visibleToday).filter((k) => !c || PEOPLE[k].color === c);
   if (S.published && (!c || c === S.me.color)) keys = [ME, ...keys];
   return {
@@ -482,10 +482,10 @@ ${c ? `<div style="flex-shrink:0;height:40px;display:flex;align-items:center;gap
   };
 };
 
-// C8 같은 색 · 발행 전 (P01: three newest covers, the rest are closed spines; opens on own publish or at midnight)
+// C8 같은 색 · 발행 전 (P01: every candidate color shows three newest covers, the rest are closed spines; opens on own publish or at midnight)
 const LOCK_FACE = { leo: { style: 'neck', mastColor: INK }, noor: { style: 'behind' }, mara: { fs: 38 } };
-SCREENS.same = () => {
-  const c = S.me.color;
+SCREENS.same = (color) => {
+  const c = color || S.me.color;
   const room = FEED.filter((k) => PEOPLE[k].color === c).sort((a, b) => minutes(PEOPLE[b].time) - minutes(PEOPLE[a].time));
   if (!locked()) {
     const fx = S.justPublished;
@@ -499,7 +499,7 @@ ${chips(c)}
 <div style="display:flex;align-items:center;gap:6px;height:40px">${paintImg(c, 56)}<span style="font-size:15px;font-weight:600">오늘의 ${cname(c)} · ${sameCount(c)}명</span></div>
 ${fx ? `<p class="note" style="margin:0">발행해서 같은 색 표지가 모두 펼쳐졌어요.</p>` : ''}
 </div>
-<div class="scroll" id="scroller">${shelfGrid([ME, ...room], { rise: fx })}<div style="height:100px"></div></div>
+<div class="scroll" id="scroller">${shelfGrid(c === S.me.color ? [ME, ...room] : room, { rise: fx })}<div style="height:100px"></div></div>
 </div>`,
       capsule: 'stand',
       mount: (el) => { if (fx) $('#mychip', el)?.classList.add('unlock-fill'); },

diff --git a/docs/design/README.md b/docs/design/README.md
@@ -142,7 +142,7 @@ Claude Design 캔버스(비공개)에 있는 디자인 보드 00~04와 화면을
 | 구독 · 흰 화면 | 높이 44, Ink 채움 → 구독 중은 Ink 1.5px 테두리 | |
 | 소셜 로그인 | 높이 54. Apple은 Ink 채움, Google·이메일은 흰 바탕 + `#D8D9D3` 1px | |
 | 같은 색 칩 | 높이 38(누르는 영역 44), 모서리 19, 물감 40 + 이름 14px 500. 기본: 흰 바탕 + Hairline 1px / 선택: Ink 채움 | 가판대 색 거르기 |
-| 같은 색 칩 · 내 색 발행 전 | Ink 1.5px 테두리 + 자물쇠 15px, 칩 맨 앞 | 누르면 C8(같은 색 · 발행 전) |
+| 같은 색 칩 · 오늘 후보 색 발행 전 | Ink 1.5px 테두리 + 자물쇠 15px, 후보 3색이 칩 맨 앞(내 색 먼저) | 누르면 C8(같은 색 · 발행 전) |
 | 세그먼트 | 높이 36(누르는 영역 44), 모서리 18, Ink 1.5px 테두리, 선택은 Ink 채움 | 얼굴 연출(그대로·물감·제호 뒤·목 아래), 제호 색(먹·흰) |
 | 색 고르기 카드 | 높이 92, 모서리 22, 흰 바탕 + Ink 1.5px(선택), 물감 110 + 이름 18px + 영문 이탤릭 16px + 체크 원 26 | 창간 색 고르기(J3) |
 | 반응 · 남의 표지 | 하트·한 줄·스크랩 아이콘 23px, 누르는 영역 48, **숫자 없음** | 하트는 채움만 바뀜 |
@@ -180,7 +180,7 @@ Claude Design 캔버스(비공개)에 있는 디자인 보드 00~04와 화면을
 | C1 표지 피드 | 앱의 오늘의 표지(Nº 249). 전면 사진 + 먹색 Esel 제호, 위 전체/구독 탭과 호수·날짜, 아래 이름·구독, 물감·같은 색 인원, 캡션, 하트·한 줄·스크랩, 펼쳐 보기, 캡슐 | 이름 → C5, 같은 색 → C4, 펼쳐 보기 → C3 |
 | C2 다음 표지 | 어두운 사진: 흰 제호, 위·아래 그림자 | C1과 같음 |
 | C3 펼침면 | 머리 "dana · Nº 038", 쪽 번호·시각, 큰 제목, 이름 줄, 사진 2장, 하트·스크랩, 독자 한 줄 3개, 글라스 한 줄 입력 | 아래 화살표 → C1 |
-| C4 가판대 | 제목·날짜, 전체 + 12색 칩(내 색 카멜은 자물쇠, 맨 앞), 작은 표지 2열 선반 | 자물쇠 칩 → C8 |
+| C4 가판대 | 제목·날짜, 전체 + 12색 칩(오늘 후보 카멜·라일락·올리브는 자물쇠, 맨 앞), 작은 표지 2열 선반(후보 3색 표지 없음) | 자물쇠 칩 → C8 |
 | C5 서가 | dana의 개인 잡지: 큰 이름, 오늘의 색, 38호 발행, 구독, 지난 호. 표지 보기는 작은 표지 + Nº + 색 띠, 책등 보기는 그날 색 책등(Nº 038–013), 결호 없음 | 표지/책등 전환 |
 | C6 오늘 호 만들기 | selin Nº 012 미리보기, 얼굴 연출 4종, 제호 색 먹/흰, 표지 문구, 발행 | 세그먼트로 미리보기 바뀜 |
 | C7 스크롤 시안 | 첫 장만 표지. 내리면 제호가 사진과 함께 올라가 사라지고 안쪽 지면이 이어짐. 위로 48px이면 작은 로고, 맨 위 360px 안에서 제호로 녹아듦 | 작은 로고 → 맨 위 |
